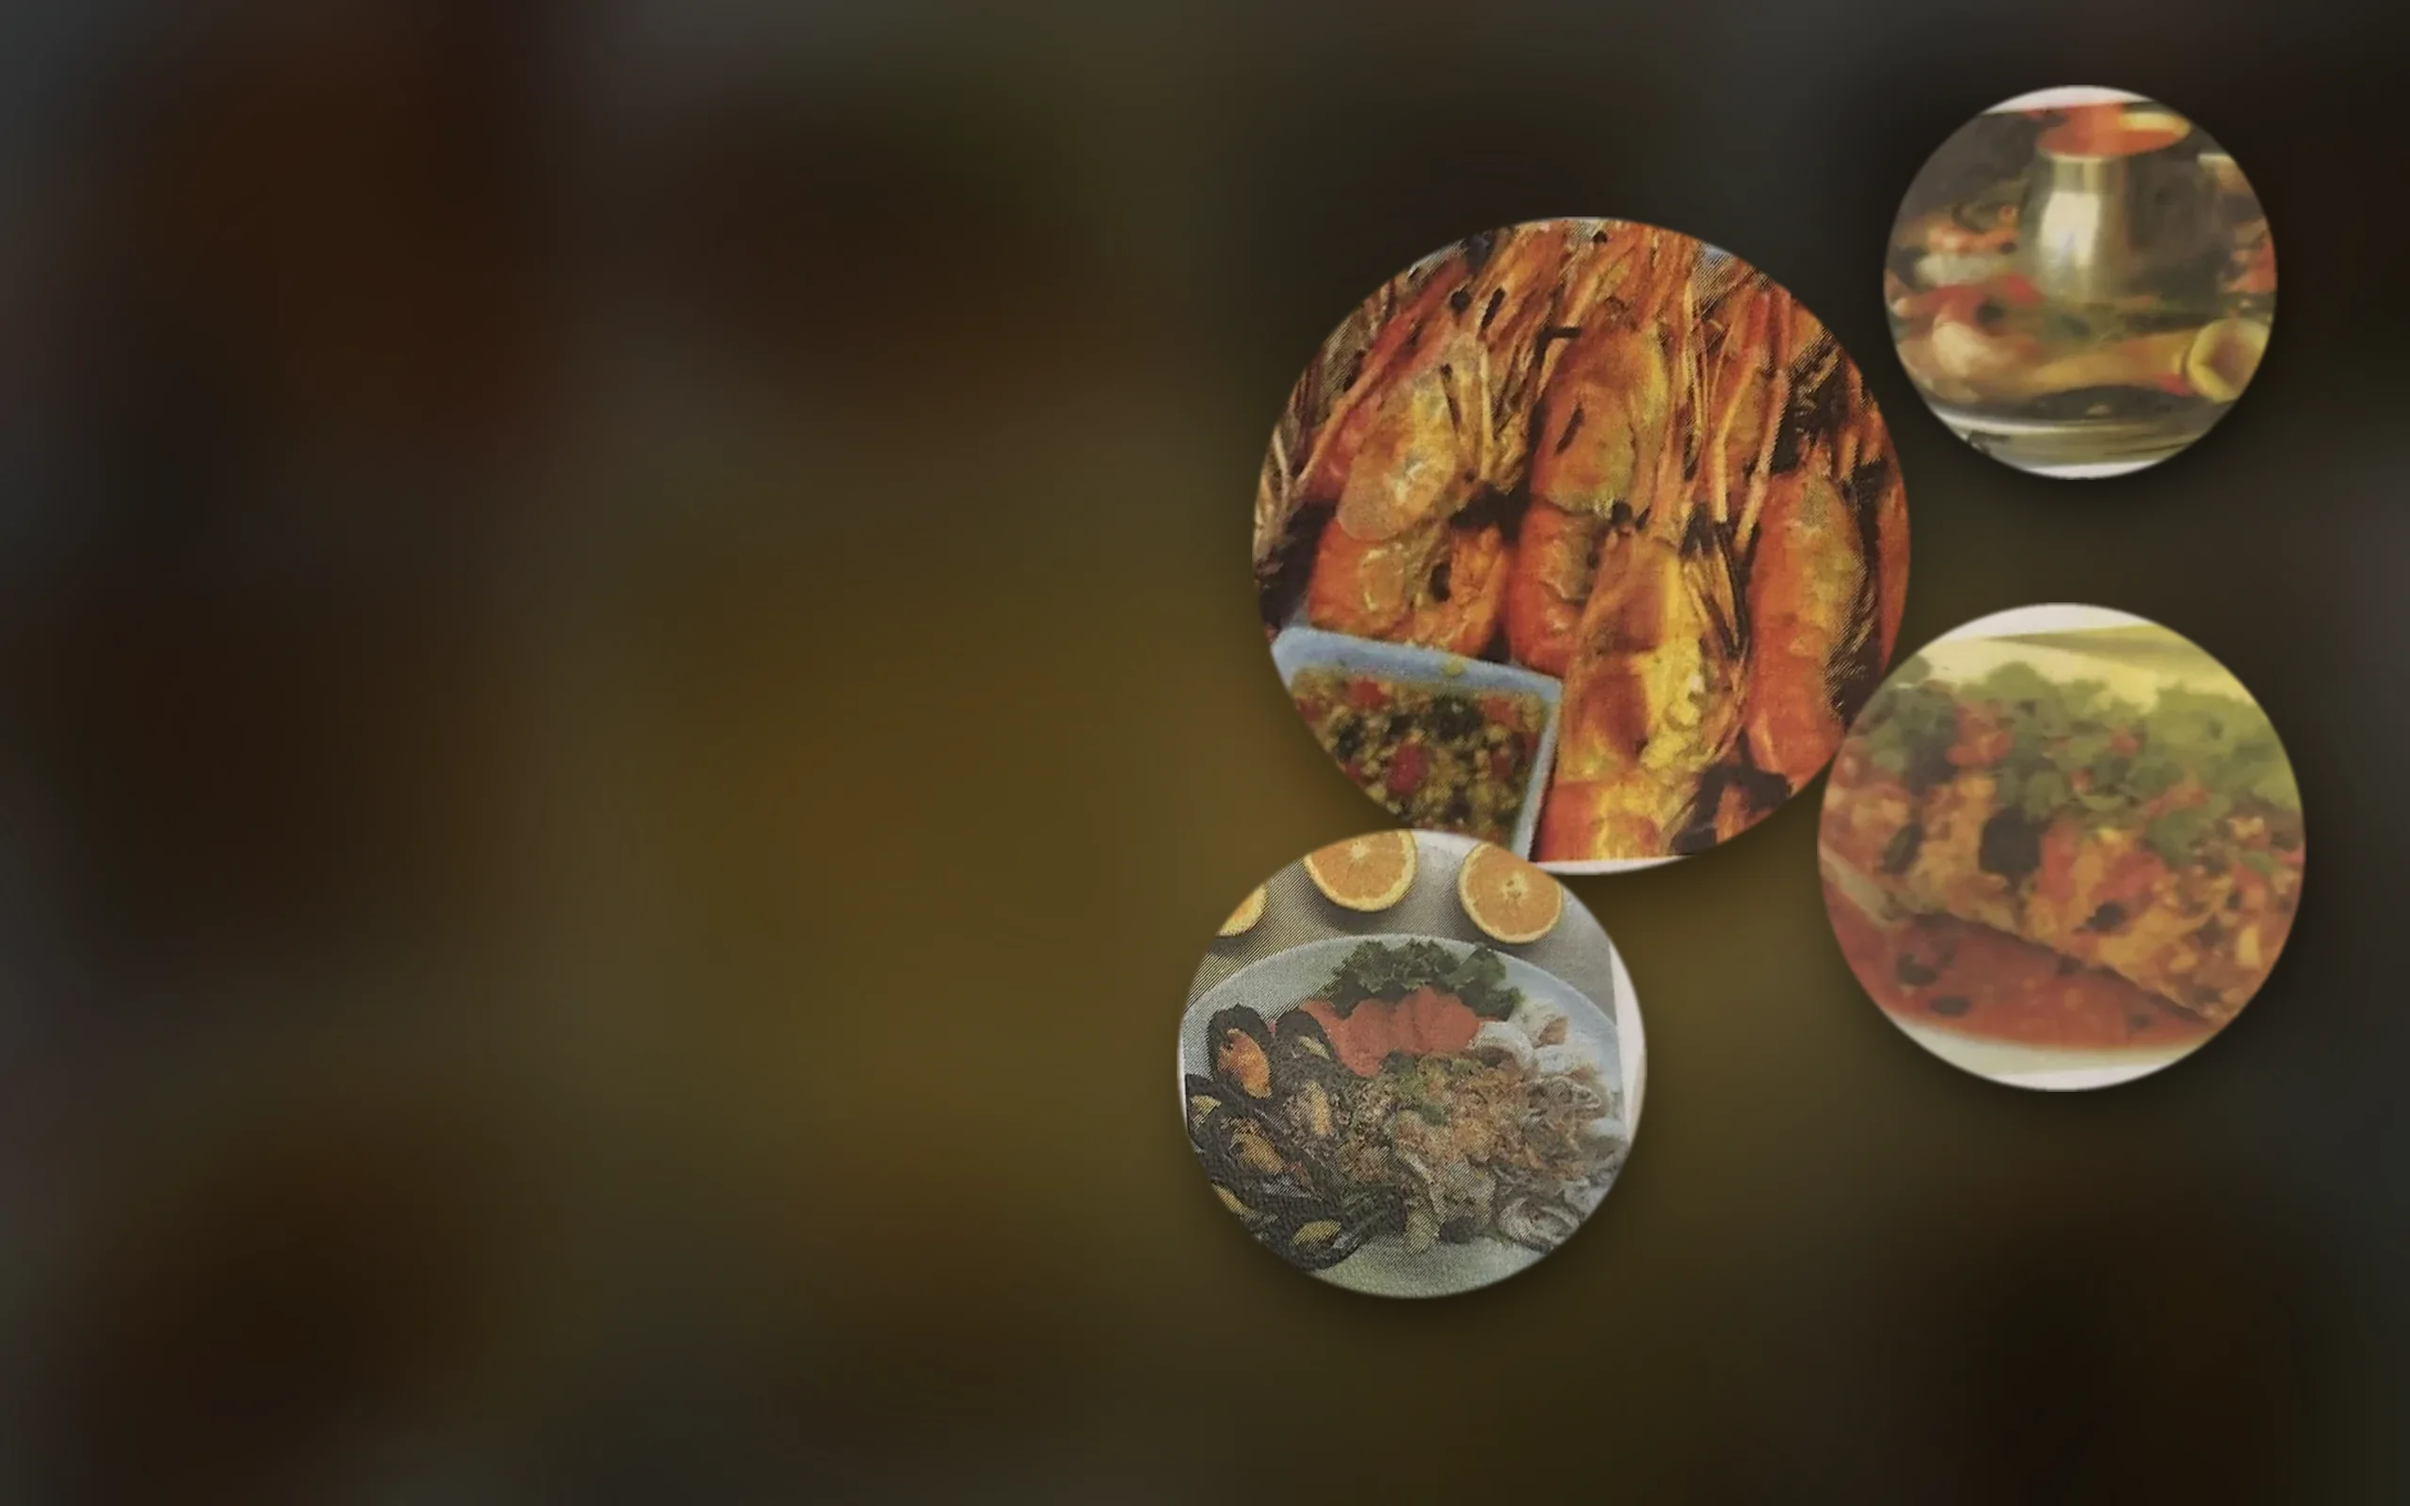
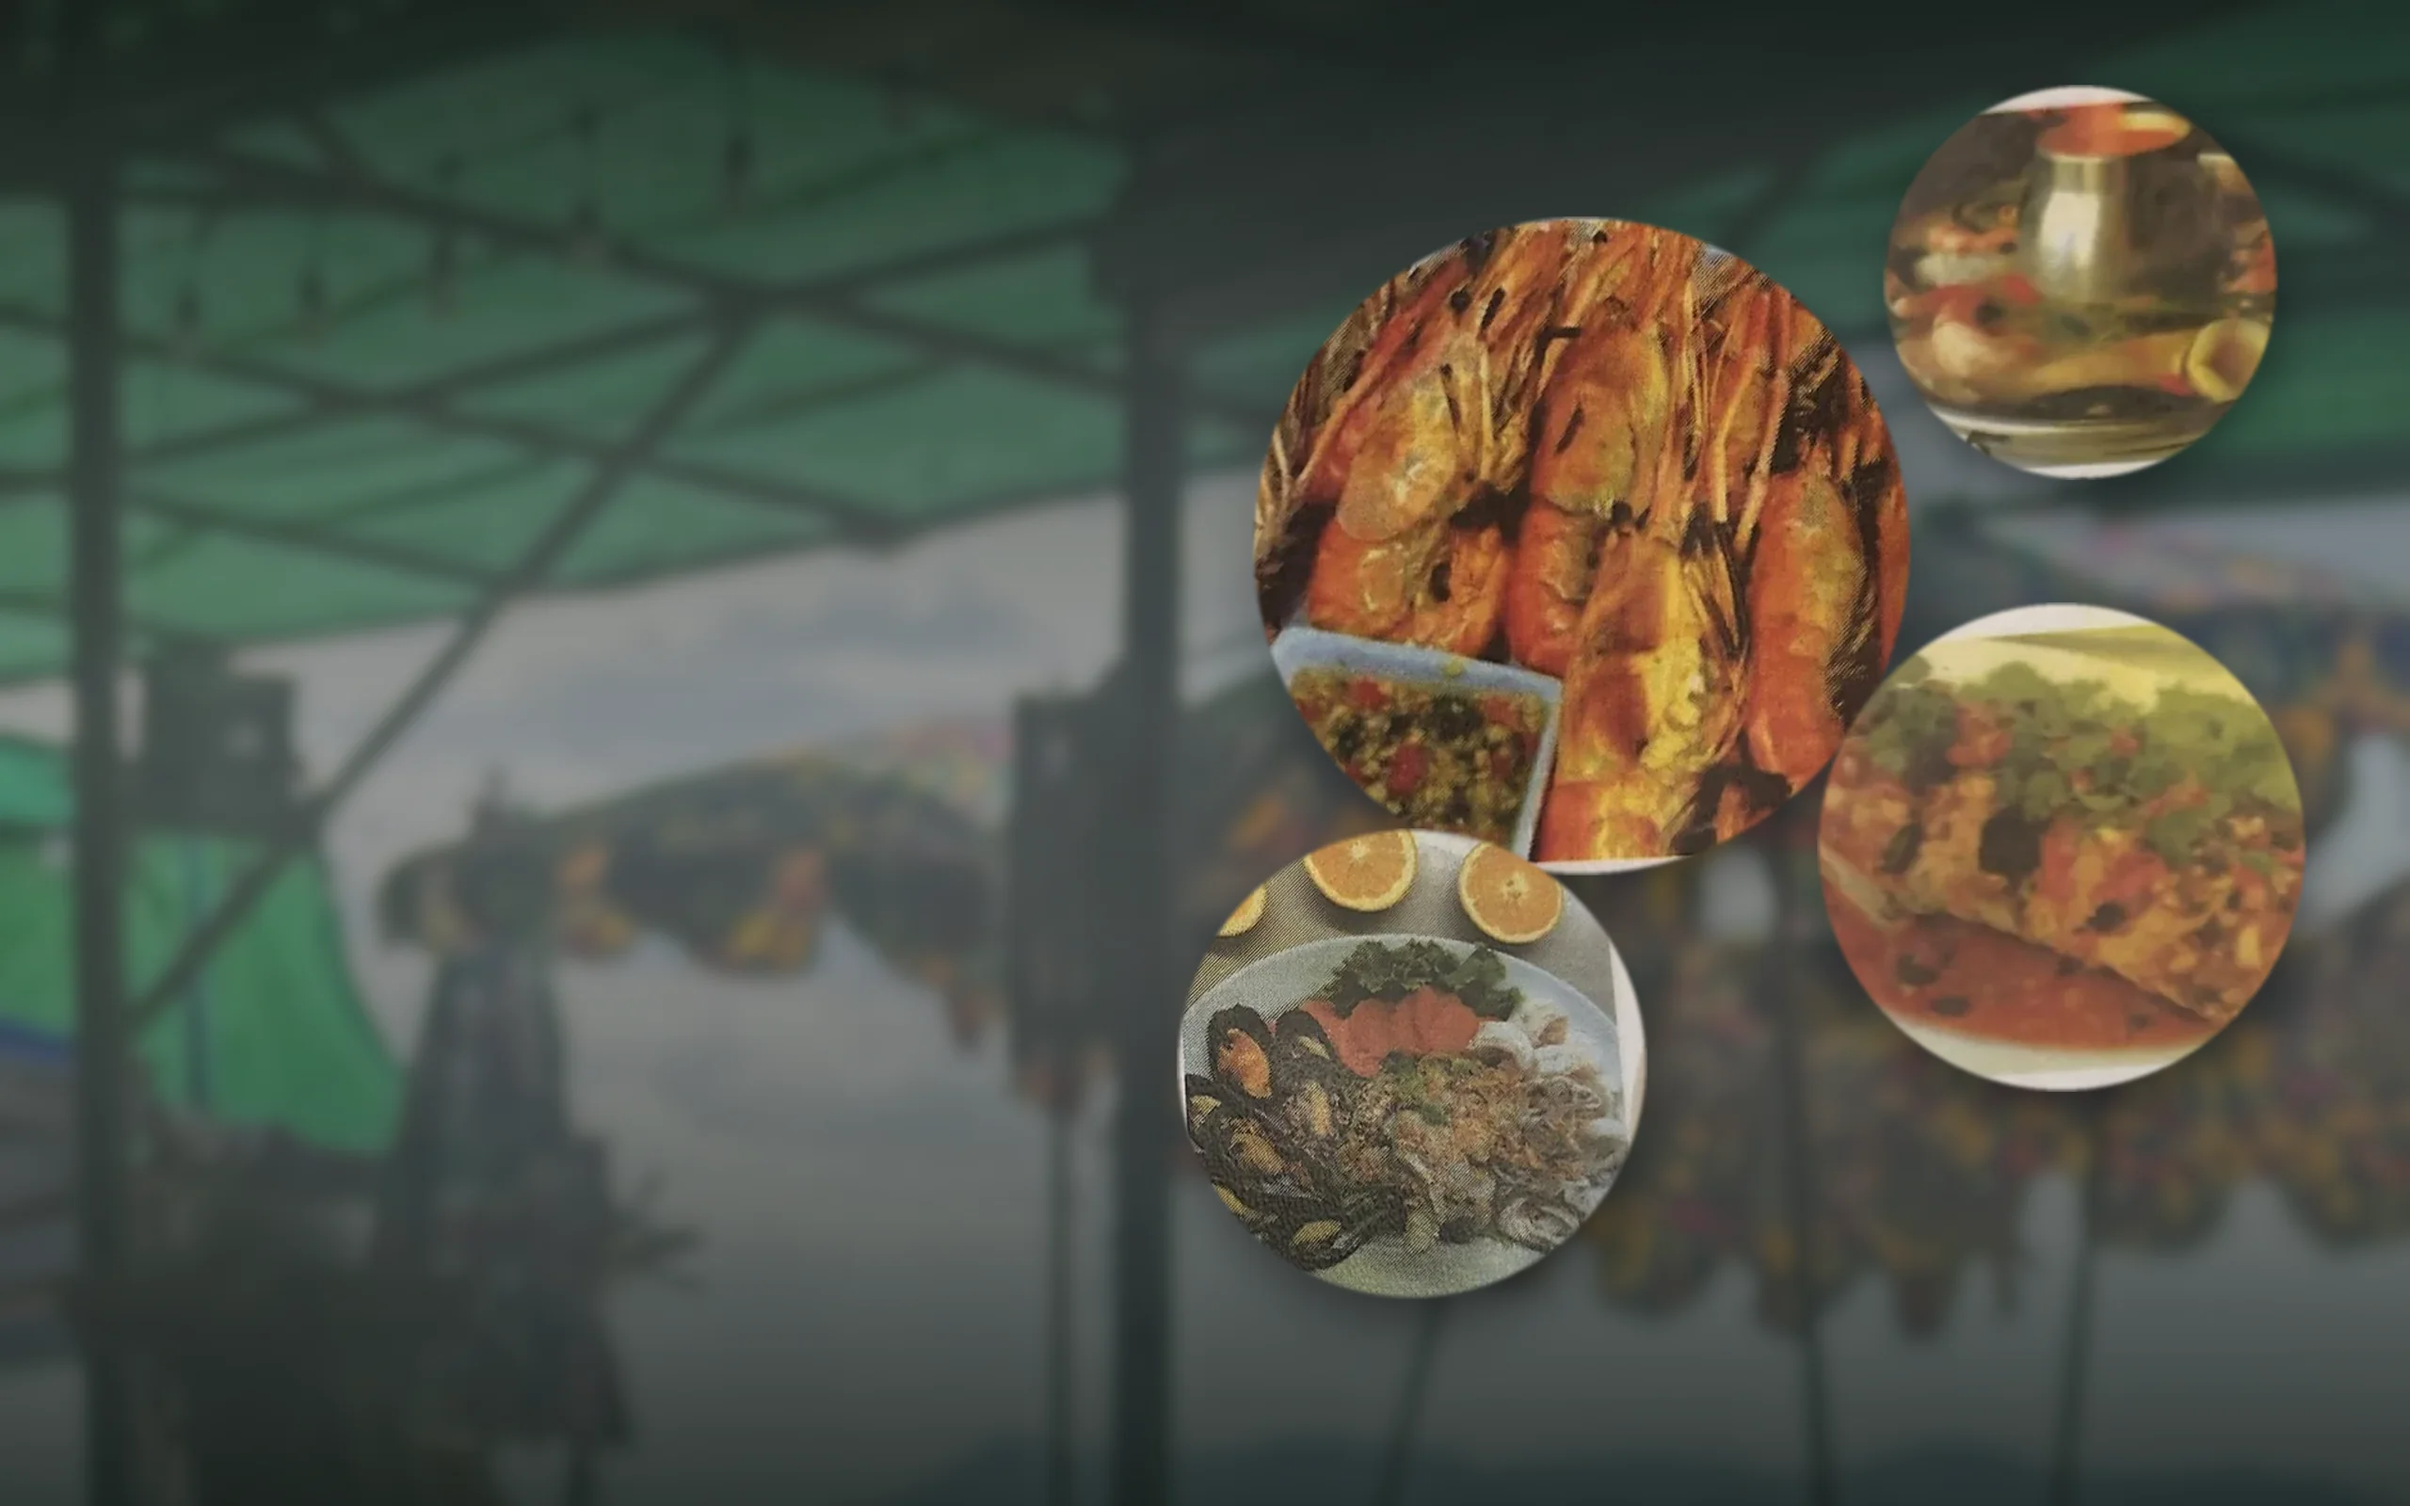
Fisherman's Garden menu: restaurant photo (people cropped out) as hero backdrop
Claude-Session: https://claude.ai/code/session_01WV7nPzdjJmk8wHCezCdfDM

diff --git a/menus/fishermans-garden/index.html b/menus/fishermans-garden/index.html
@@ -8,7 +8,7 @@
 <meta name="color-scheme" content="dark">
 <title>Fisherman's Garden · Menu</title>
 <meta name="description" content="Fisherman's Garden — Drinks, juices &amp; cocktails. Menu in 9 languages: ไทย, English, 中文, Русский, 한국어, हिन्दी, العربية, Deutsch, Français.">
-<link rel="preload" as="image" href="hero-m.webp?v=2" media="(max-width:760px)" fetchpriority="high">
+<link rel="preload" as="image" href="hero-m.webp?v=4" media="(max-width:760px)" fetchpriority="high">
 <link rel="preconnect" href="https://fonts.googleapis.com">
 <link rel="preconnect" href="https://fonts.gstatic.com" crossorigin>
 <link href="https://fonts.googleapis.com/css2?family=Fraunces:ital,opsz,wght@0,9..144,300;0,9..144,400;0,9..144,500;1,9..144,400&family=Jost:wght@400;500;600;700&family=Noto+Sans+Thai:wght@400;500;600;700&display=swap" rel="stylesheet">

diff --git a/menus/fishermans-garden/menu.js b/menus/fishermans-garden/menu.js
@@ -25,8 +25,8 @@ window.NM_MENU = {
  "photoHD": false,
  "tapHint": false,
  "spice": false,
- "heroMobile": "hero-m.webp?v=2",
- "heroWide": "hero.webp?v=2",
+ "heroMobile": "hero-m.webp?v=4",
+ "heroWide": "hero.webp?v=4",
  "tagline": {
   "th": "อาหารไทย ซีฟู้ด เครื่องดื่ม",
   "en": "Thai food, seafood & drinks",
